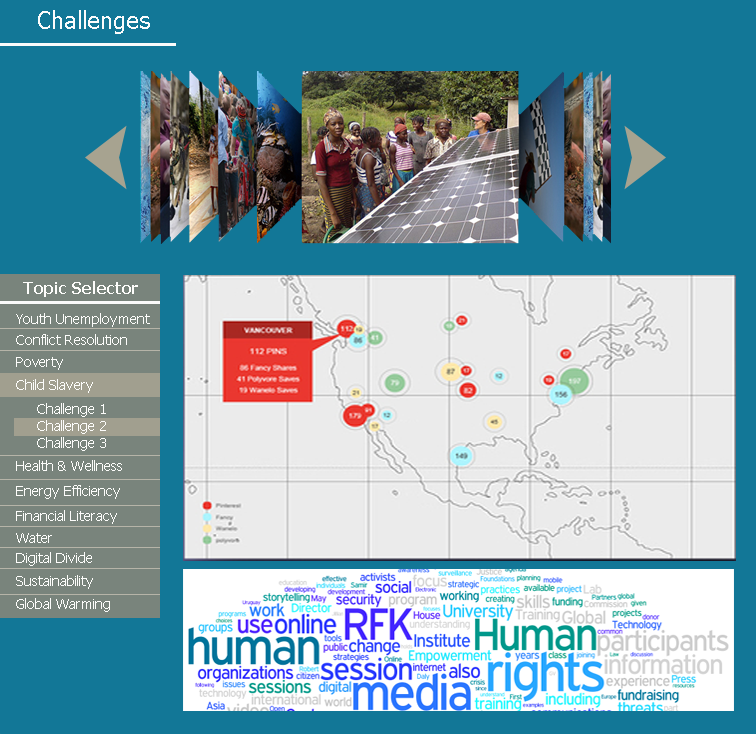
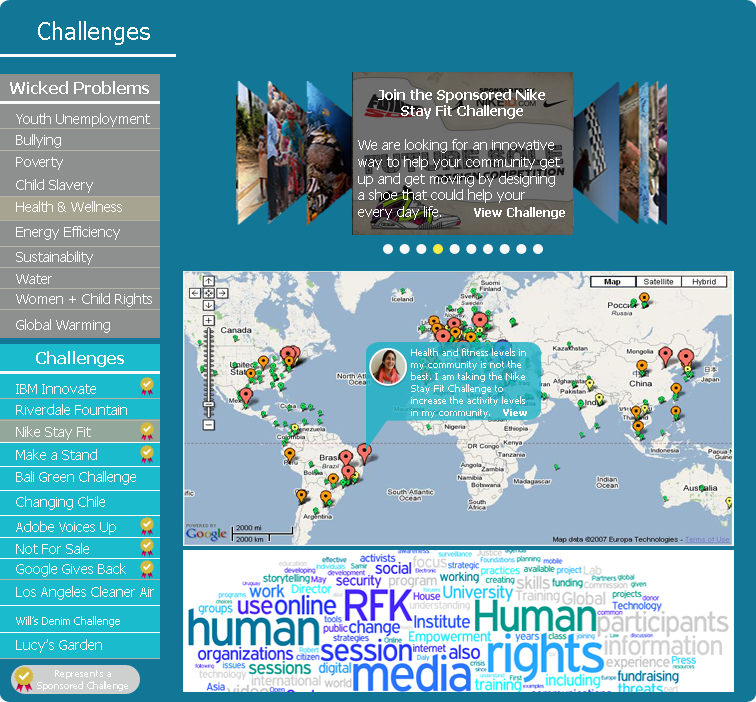
FTE-202

diff --git a/sites/all/themes/newfteui/css/newfteui.css b/sites/all/themes/newfteui/css/newfteui.css
@@ -397,8 +397,9 @@ ul:after,
 	right:70px;
 }
 #studio{
-	background-image: url(../images/example_03.png);
+	/*background-image: url(../images/example_03.png);*/
 	background-color:rgba(189,21,54,1.0);
+	text-align:center;
 }
 #studio.show{
 	border-radius: 10px 0 10px 10px;

diff --git a/sites/all/themes/newfteui/page--front.tpl.php b/sites/all/themes/newfteui/page--front.tpl.php
@@ -81,7 +81,9 @@
 	  	<div class="competitions-handler pane-handler"  data-aim="competitions"></div>
 	    <?php print render($page['sliding_panes']); ?>
 	  </div>
-	  <div class="pane" id="studio"></div>
+	  <div class="pane" id="studio">
+	  	<img src="sites/all/themes/newfteui/images/example_12.png" style="margin:-35px auto 0" />
+	  </div>
 	  <div class="pane" id="challenge"></div>
 	  <div class="pane" id="competitions"></div>
 
